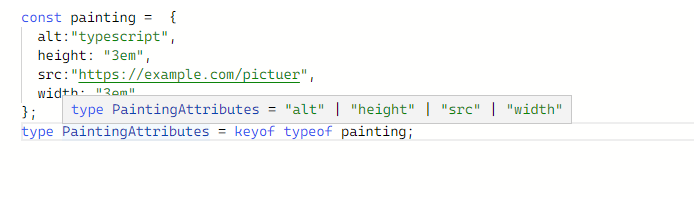
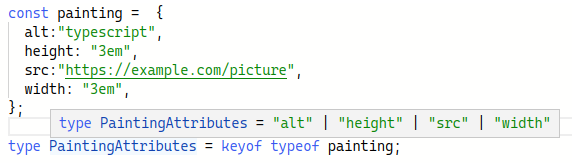
typo minor at picture.png

Changed region(s): [[0.0, 0.0307, 0.9808, 0.9509]]

diff --git a/modules/06-generics/03-interpolat/readme.md b/modules/06-generics/03-interpolat/readme.md
@@ -50,12 +50,10 @@ const b: Picture = a;
 const painting =  {
   alt:"typescript",
   height: "3em",
-  src:"https://example.com/pictuer",
+  src:"https://example.com/picture",
   width: "3em",
 };
 type PaintingAttributes = keyof typeof painting;
-//PaintingAttributes
-
 ```
 
 Тип PaintingAttributes полностью эквивалентен типу Attributes, который мы создали вручную.
